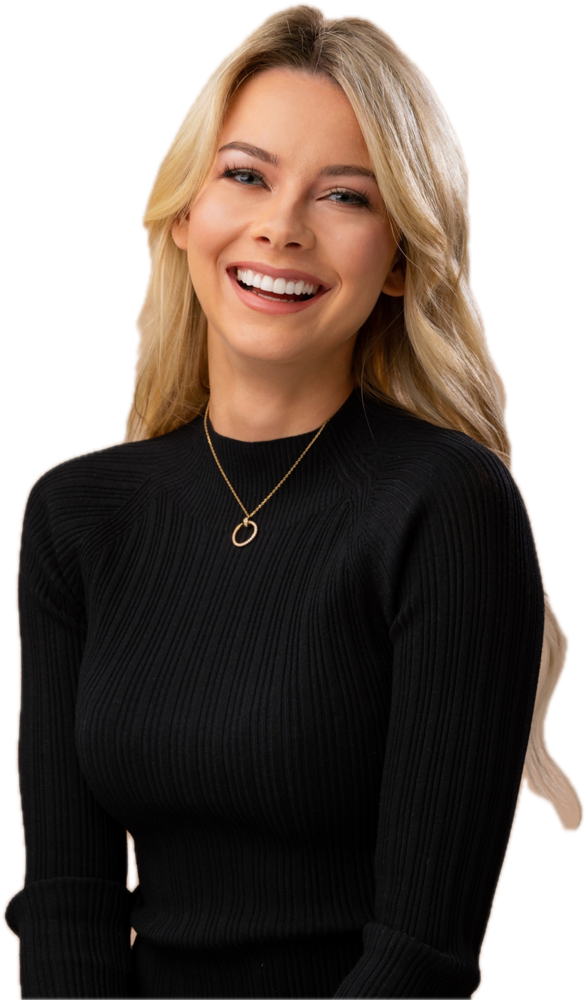
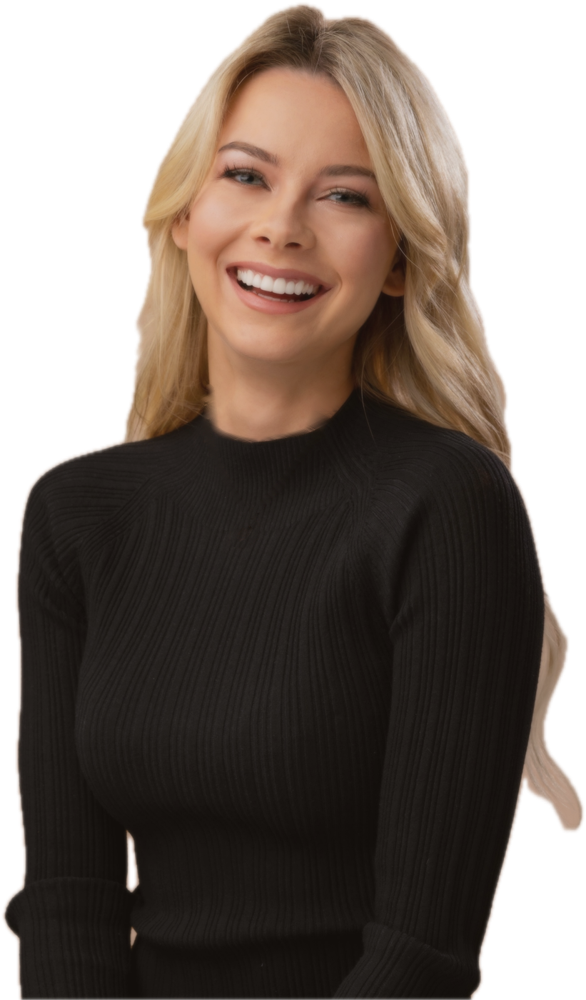
Contact photo: necklace removed + softer grade; fix pill hover label; fade contact content not band

diff --git a/index.html b/index.html
@@ -340,6 +340,9 @@
   @media (prefers-reduced-motion: no-preference) {
     .reveal { opacity: 0; transform: translateY(16px); transition: opacity .7s ease, transform .7s cubic-bezier(.2,.7,.2,1); }
     .reveal.in { opacity: 1; transform: none; }
+    .contact.reveal { opacity: 1; transform: none; }
+    .contact .wrap { opacity: 0; transform: translateY(16px); transition: opacity .7s ease, transform .7s cubic-bezier(.2,.7,.2,1); }
+    .contact.in .wrap { opacity: 1; transform: none; }
   }
   @media (prefers-reduced-motion: reduce) {
     html { scroll-behavior: auto; }
@@ -416,8 +419,8 @@
         <h1 class="name" id="name">Leslie<br>Busick</h1>
         <p class="hero-tag">2x founder, operator, advisor, <strong>and just trying to be useful where I can!</strong></p>
         <div class="hero-cta">
-          <a class="pill explore solid" href="mailto:busickleslie@gmail.com">Contact me <svg viewBox="0 0 16 16" fill="none" stroke="currentColor" stroke-width="1.4" stroke-linecap="round" stroke-linejoin="round" aria-hidden="true"><path d="M2 8h11M9 4l4 4-4 4"/></svg></a>
-          <a class="pill explore" id="see-work" href="#work">See my work <svg viewBox="0 0 16 16" fill="none" stroke="currentColor" stroke-width="1.4" stroke-linecap="round" stroke-linejoin="round" aria-hidden="true"><path d="M8 2v11M4 9l4 4 4-4"/></svg></a>
+          <a class="pill explore solid" href="mailto:busickleslie@gmail.com"><span>Contact me</span> <svg viewBox="0 0 16 16" fill="none" stroke="currentColor" stroke-width="1.4" stroke-linecap="round" stroke-linejoin="round" aria-hidden="true"><path d="M2 8h11M9 4l4 4-4 4"/></svg></a>
+          <a class="pill explore" id="see-work" href="#work"><span>See my work</span> <svg viewBox="0 0 16 16" fill="none" stroke="currentColor" stroke-width="1.4" stroke-linecap="round" stroke-linejoin="round" aria-hidden="true"><path d="M8 2v11M4 9l4 4 4-4"/></svg></a>
         </div>
       </div>
       <div class="hero-photo">
@@ -699,7 +702,7 @@
         <div class="copy">
           <p class="eyebrow">Let's talk</p>
           <h2 class="display h2">If you're working on something interesting, I advise and angel invest in a <em>handful of founders.</em></h2>
-          <a class="pill light" href="mailto:busickleslie@gmail.com">Contact me <svg viewBox="0 0 16 16" fill="none" stroke="currentColor" stroke-width="1.6" stroke-linecap="round" stroke-linejoin="round" aria-hidden="true"><path d="M2 8h11M9 4l4 4-4 4"/></svg></a>
+          <a class="pill light" href="mailto:busickleslie@gmail.com"><span>Contact me</span> <svg viewBox="0 0 16 16" fill="none" stroke="currentColor" stroke-width="1.6" stroke-linecap="round" stroke-linejoin="round" aria-hidden="true"><path d="M2 8h11M9 4l4 4-4 4"/></svg></a>
           <div class="social" aria-label="Elsewhere">
             <a href="https://www.linkedin.com/in/lesliebusick/" target="_blank" rel="noopener" aria-label="LinkedIn"><svg viewBox="0 0 24 24" fill="currentColor" aria-hidden="true"><path d="M20.45 20.45h-3.55v-5.57c0-1.33-.03-3.04-1.85-3.04-1.86 0-2.14 1.45-2.14 2.94v5.67H9.35V9h3.41v1.56h.05c.48-.9 1.64-1.85 3.37-1.85 3.6 0 4.27 2.37 4.27 5.46v6.28zM5.34 7.43a2.06 2.06 0 1 1 0-4.12 2.06 2.06 0 0 1 0 4.12zM7.12 20.45H3.56V9h3.56v11.45zM22.22 0H1.77C.79 0 0 .77 0 1.73v20.54C0 23.23.79 24 1.77 24h20.45c.98 0 1.78-.77 1.78-1.73V1.73C24 .77 23.2 0 22.22 0z"/></svg></a>
             <a href="https://www.instagram.com/leslie_the_3rd" target="_blank" rel="noopener" aria-label="Instagram"><svg viewBox="0 0 24 24" fill="none" stroke="currentColor" stroke-width="2" stroke-linecap="round" stroke-linejoin="round" aria-hidden="true"><rect x="2.5" y="2.5" width="19" height="19" rx="5.5"/><circle cx="12" cy="12" r="4.4"/><circle cx="17.6" cy="6.4" r="1.1" fill="currentColor" stroke="none"/></svg></a>
